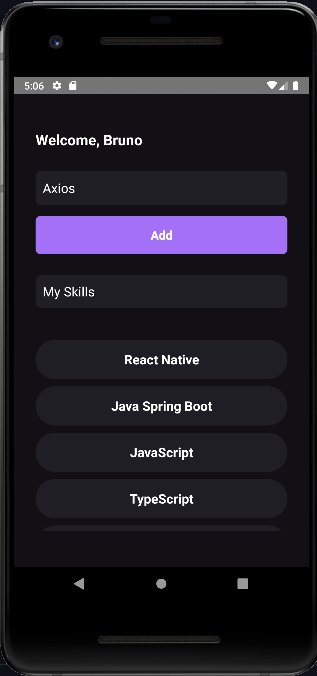
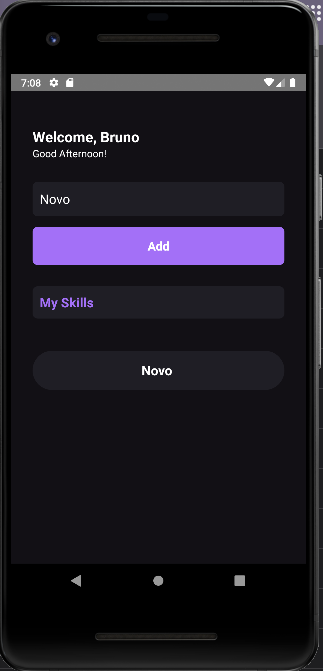
Atualizações - 18081608

diff --git a/src/pages/home.js b/src/pages/home.js
@@ -13,20 +13,42 @@ import { SkillCard } from "../components/SkillCard";
 
 export function Home() {
 
-    //IMUTABILIDADE
+    //IMUTABILIDADE - HOOKS
     //nweSkill - é o quem o estado / setNewSkill - é a função que atualiza o estado
     const [newSkill, setNewSkill] = useState('');
     const [mySkills, setMySkills] = useState([]);
+    const [gretting, setGretting] = useState('');
 
     function handleAddNewSkill(){
         setMySkills(oldState => [...oldState, newSkill]);
     }
+
+    //useEffect
+    useEffect(() => {
+        const currentHour = new Date().getHours() - 3;
+        console.log(currentHour);
+        //console.log(Date());
+        //const currentHour = 16;
+        if(currentHour < 12){
+            setGretting('Good Morning!');
+        }
+        else if(currentHour >=12 && currentHour < 18){
+            setGretting('Good Afternoon!');
+        }
+        else {
+            setGretting('Good Night!');
+        }
+    }, [])
  
     //onChangeText - fica observando toda a vez que muda o valor
     return (
         <View style={styles.container}>
         <Text style={styles.title}>
             Welcome, Bruno
+        </Text>
+
+        <Text style={styles.greetings}>
+           { gretting } 
         </Text>
 
         <TextInput 
@@ -37,7 +59,7 @@ export function Home() {
 
         <Button onPress={handleAddNewSkill}/>
 
-        <Text style={[styles.input, {marginVertical: 40} ]}>
+        <Text style={[styles.input, {marginVertical: 40, color: '#A370F7', fontWeight: 'bold'} ]}>
             My Skills
         </Text>
 
@@ -73,4 +95,7 @@ export function Home() {
         marginTop: 30,
         borderRadius: 7
     },
+    greetings: {
+        color: '#FFF'
+    }
     });
